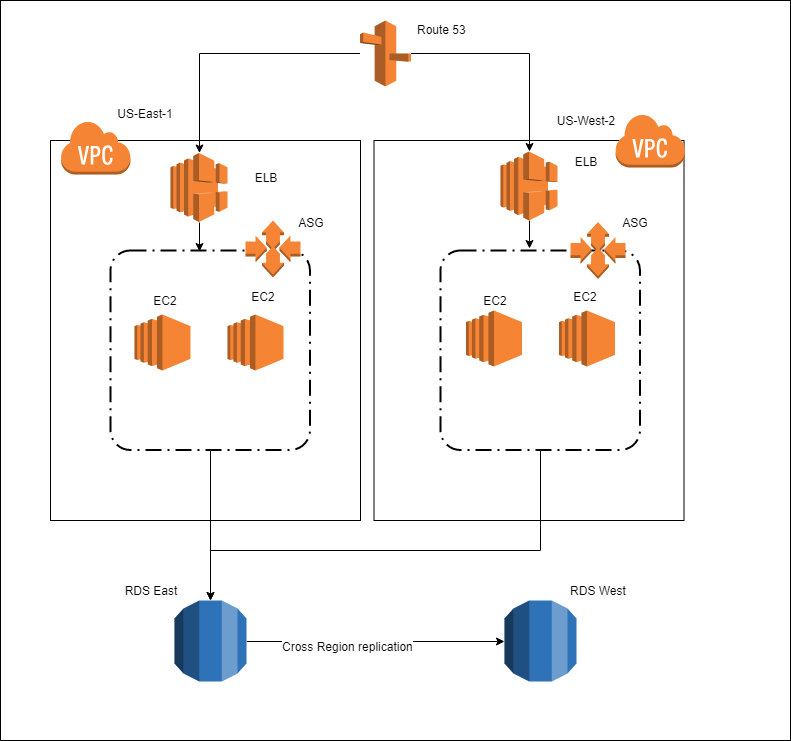
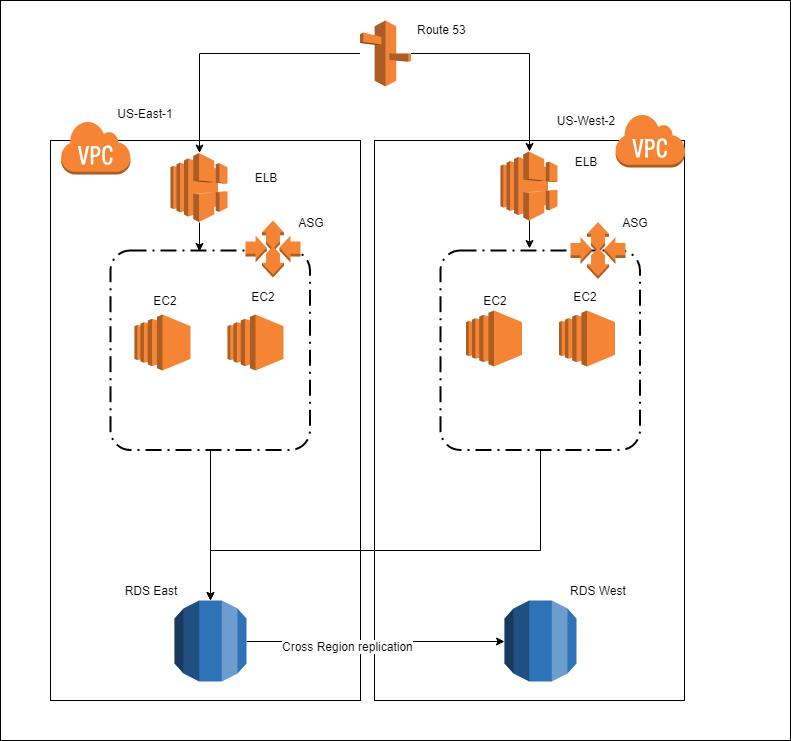
fixed the arch diagram

diff --git a/README.md b/README.md
@@ -30,6 +30,9 @@ run the below command:
 The spring boot application is hosted in EC2 instance.
 ```IP address - 3.89.98.255 (replace localhost with this ip address)```
 
+Currently I have shutdown the EC2 instance as I have crossed the free tier range.
+Please reach out to me to switch it on. In addition IP address changes everytime I switch it on.
+
 ## Following endpoint is exposed:
 ```
 Create a User:
